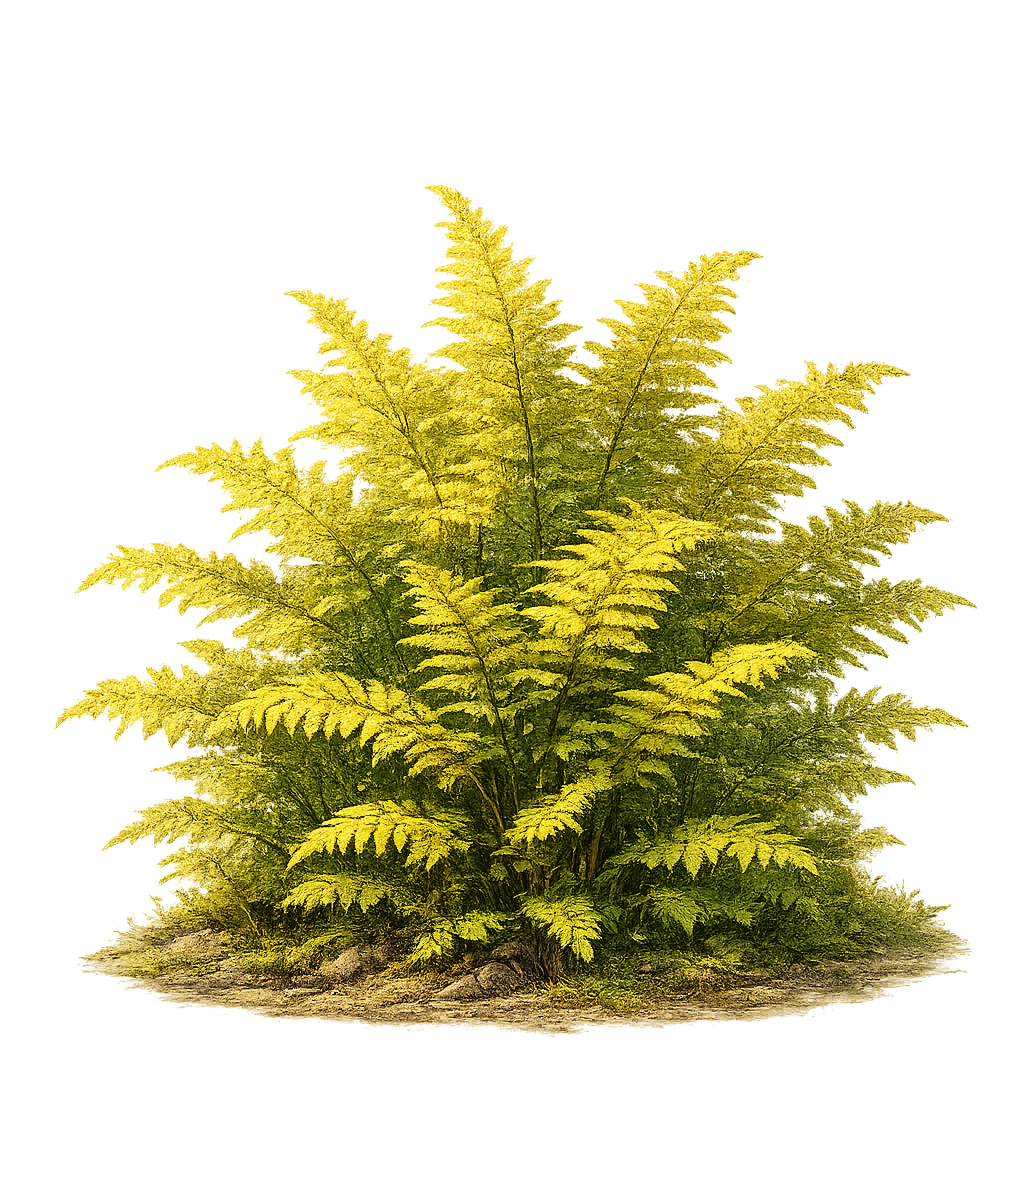
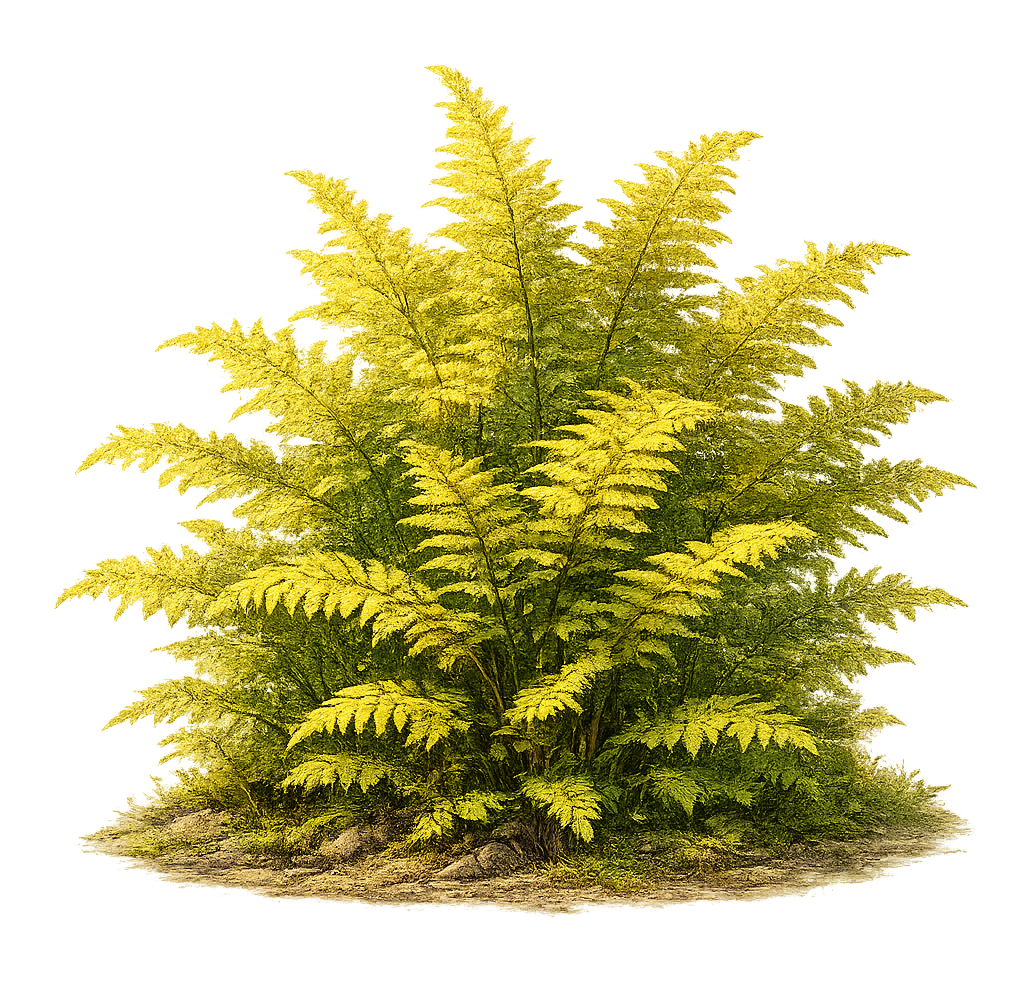
Update decision markets title, description, and crop aspen image

diff --git a/src/content/posts/practical-limitations-of-decision-markets.md b/src/content/posts/practical-limitations-of-decision-markets.md
@@ -1,6 +1,6 @@
 ---
-title: Practical Limitations of Decision Markets
-description: Where are all the decision markets?
+title: Where are all the Decision Markets?
+description: On the practical limitations of decision markets
 date: 2026-05-10
 tags:
   - forecasting